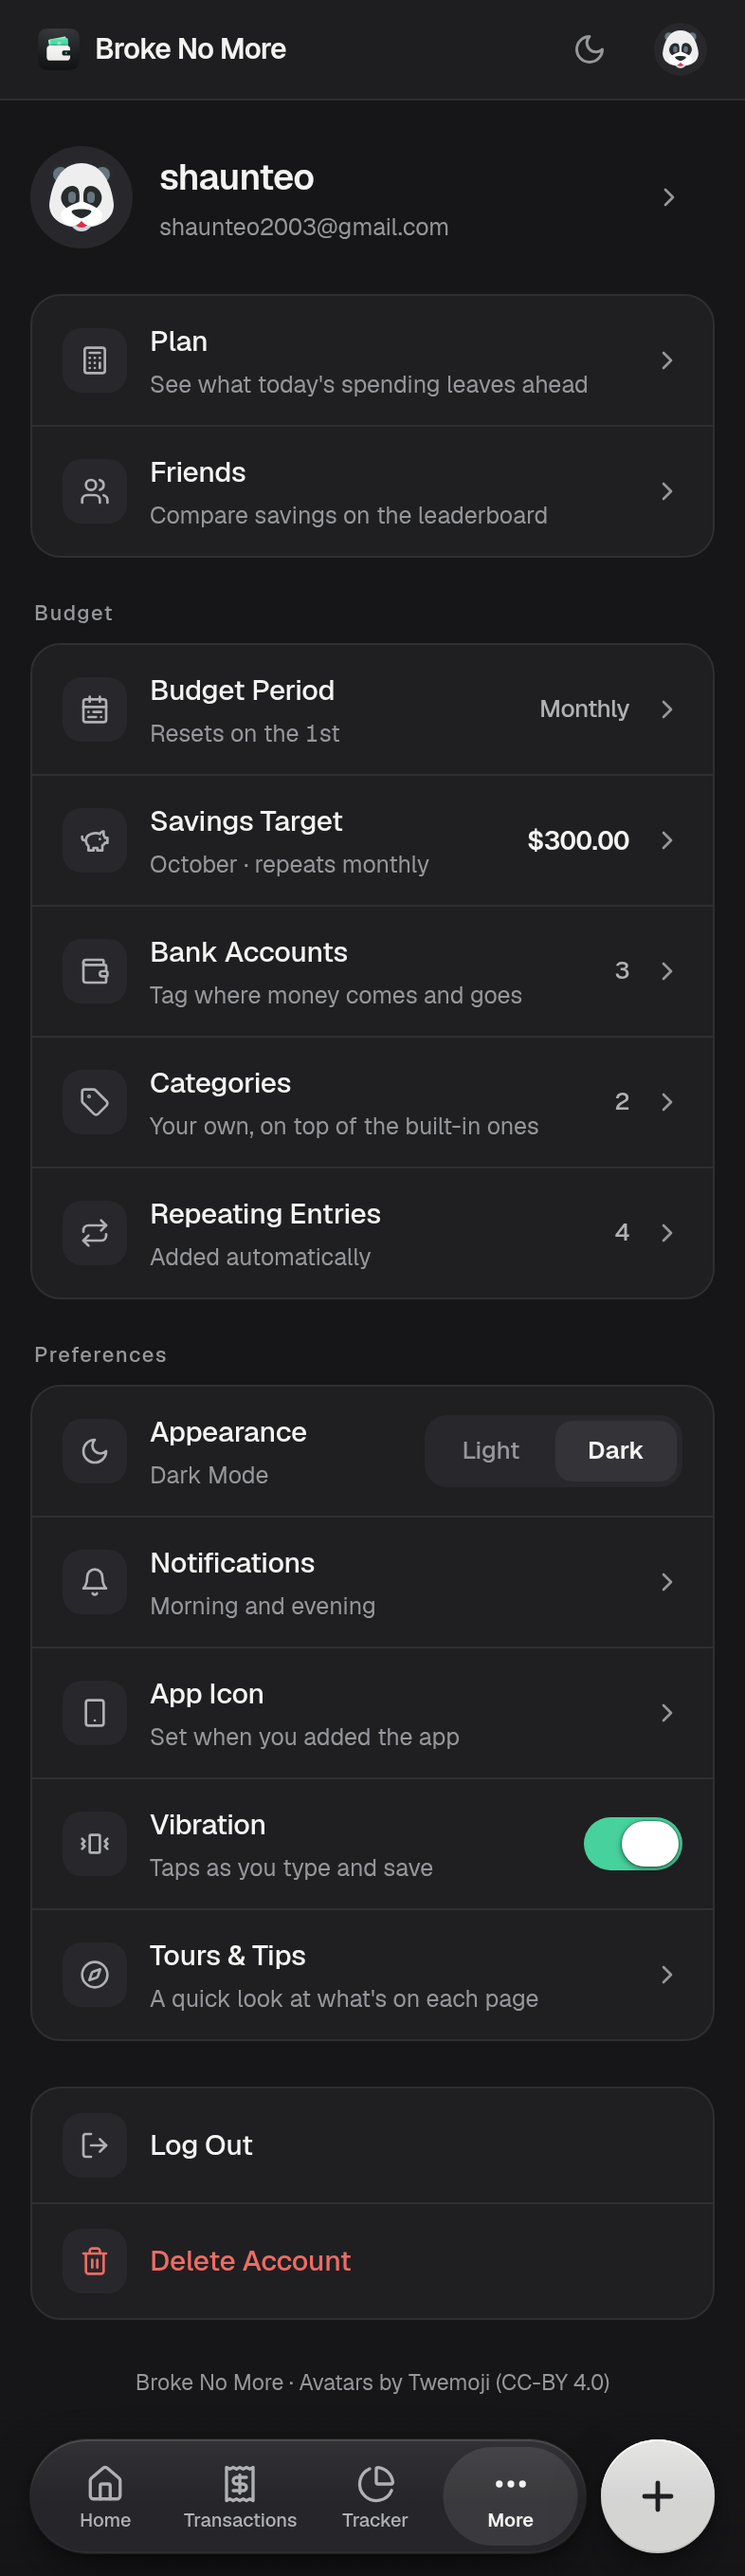
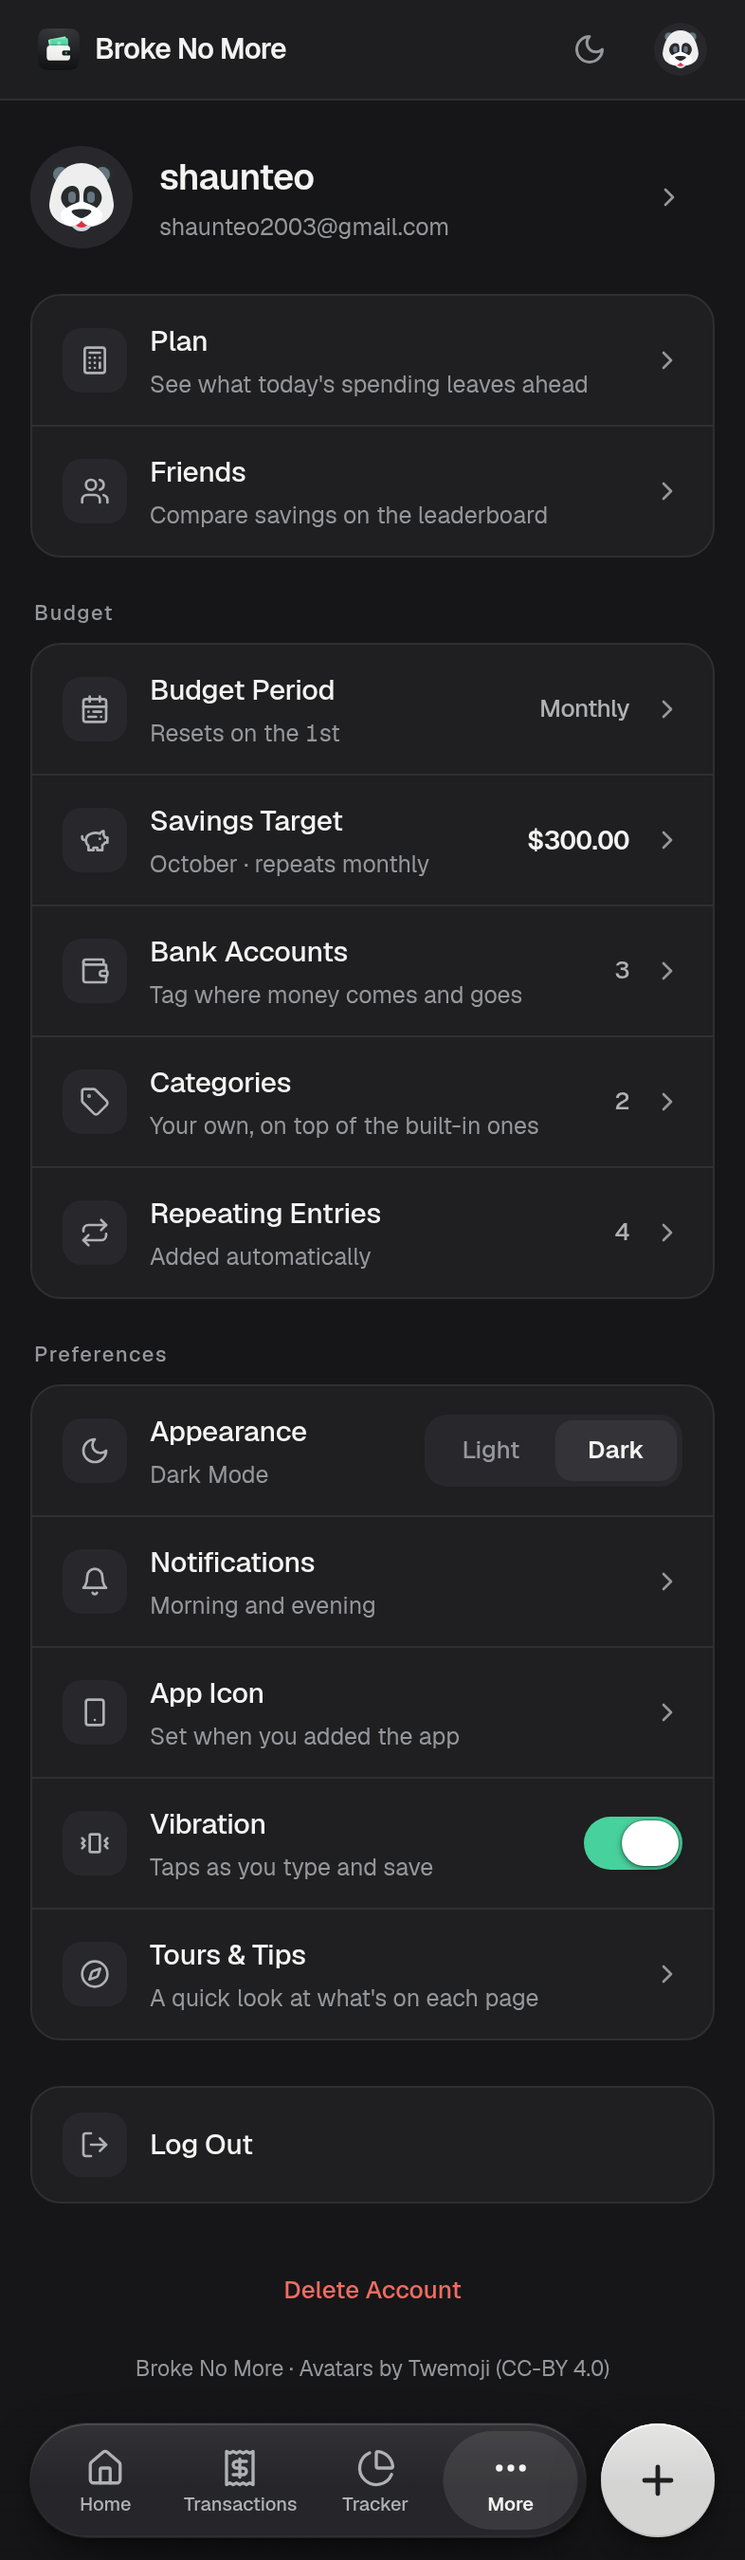
docs(design): As built screenshot with Delete Account back as a link

diff --git a/design/more-mockups/README.md b/design/more-mockups/README.md
@@ -23,8 +23,9 @@ Single screenshots of each version are in [`screens/`](screens/).
 
 ## As built
 
-The Cleaned Up version, with every row's description kept. These are
-screenshots of the real `MorePage` component with the same example data in
-place of a backend, at the same size.
+The Cleaned Up version, with every row's description kept and Delete Account
+left as the red link under Log Out. These are screenshots of the real
+`MorePage` component with the same example data in place of a backend, at the
+same size.
 
 <img src="screens/5-built-full-page.png" width="393" alt="The More page as built"> <img src="screens/6-built-tours-tips-sheet.png" width="393" alt="The Tours & Tips sheet, with the Tips switch at the top">
